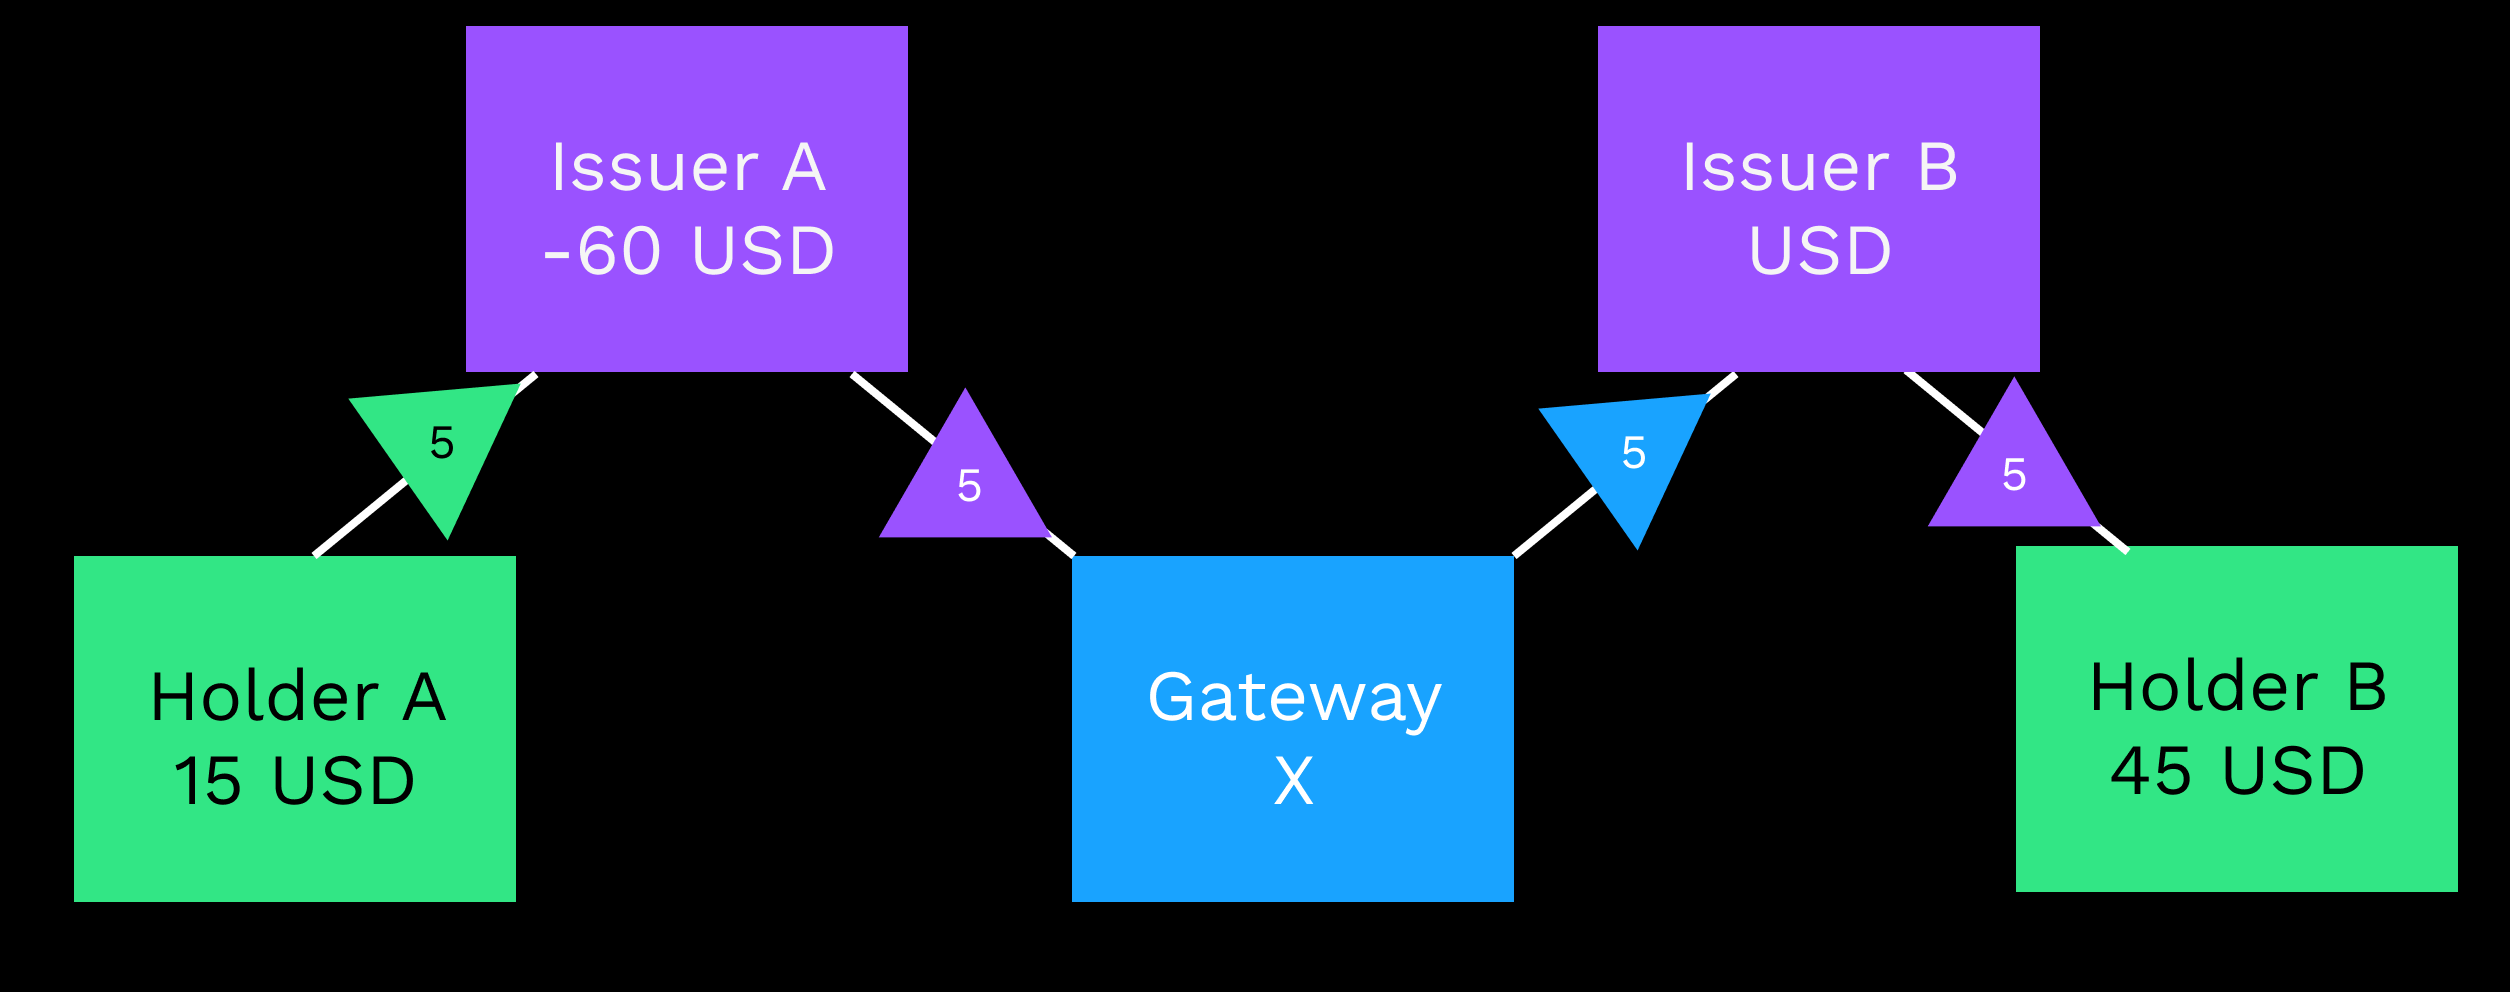
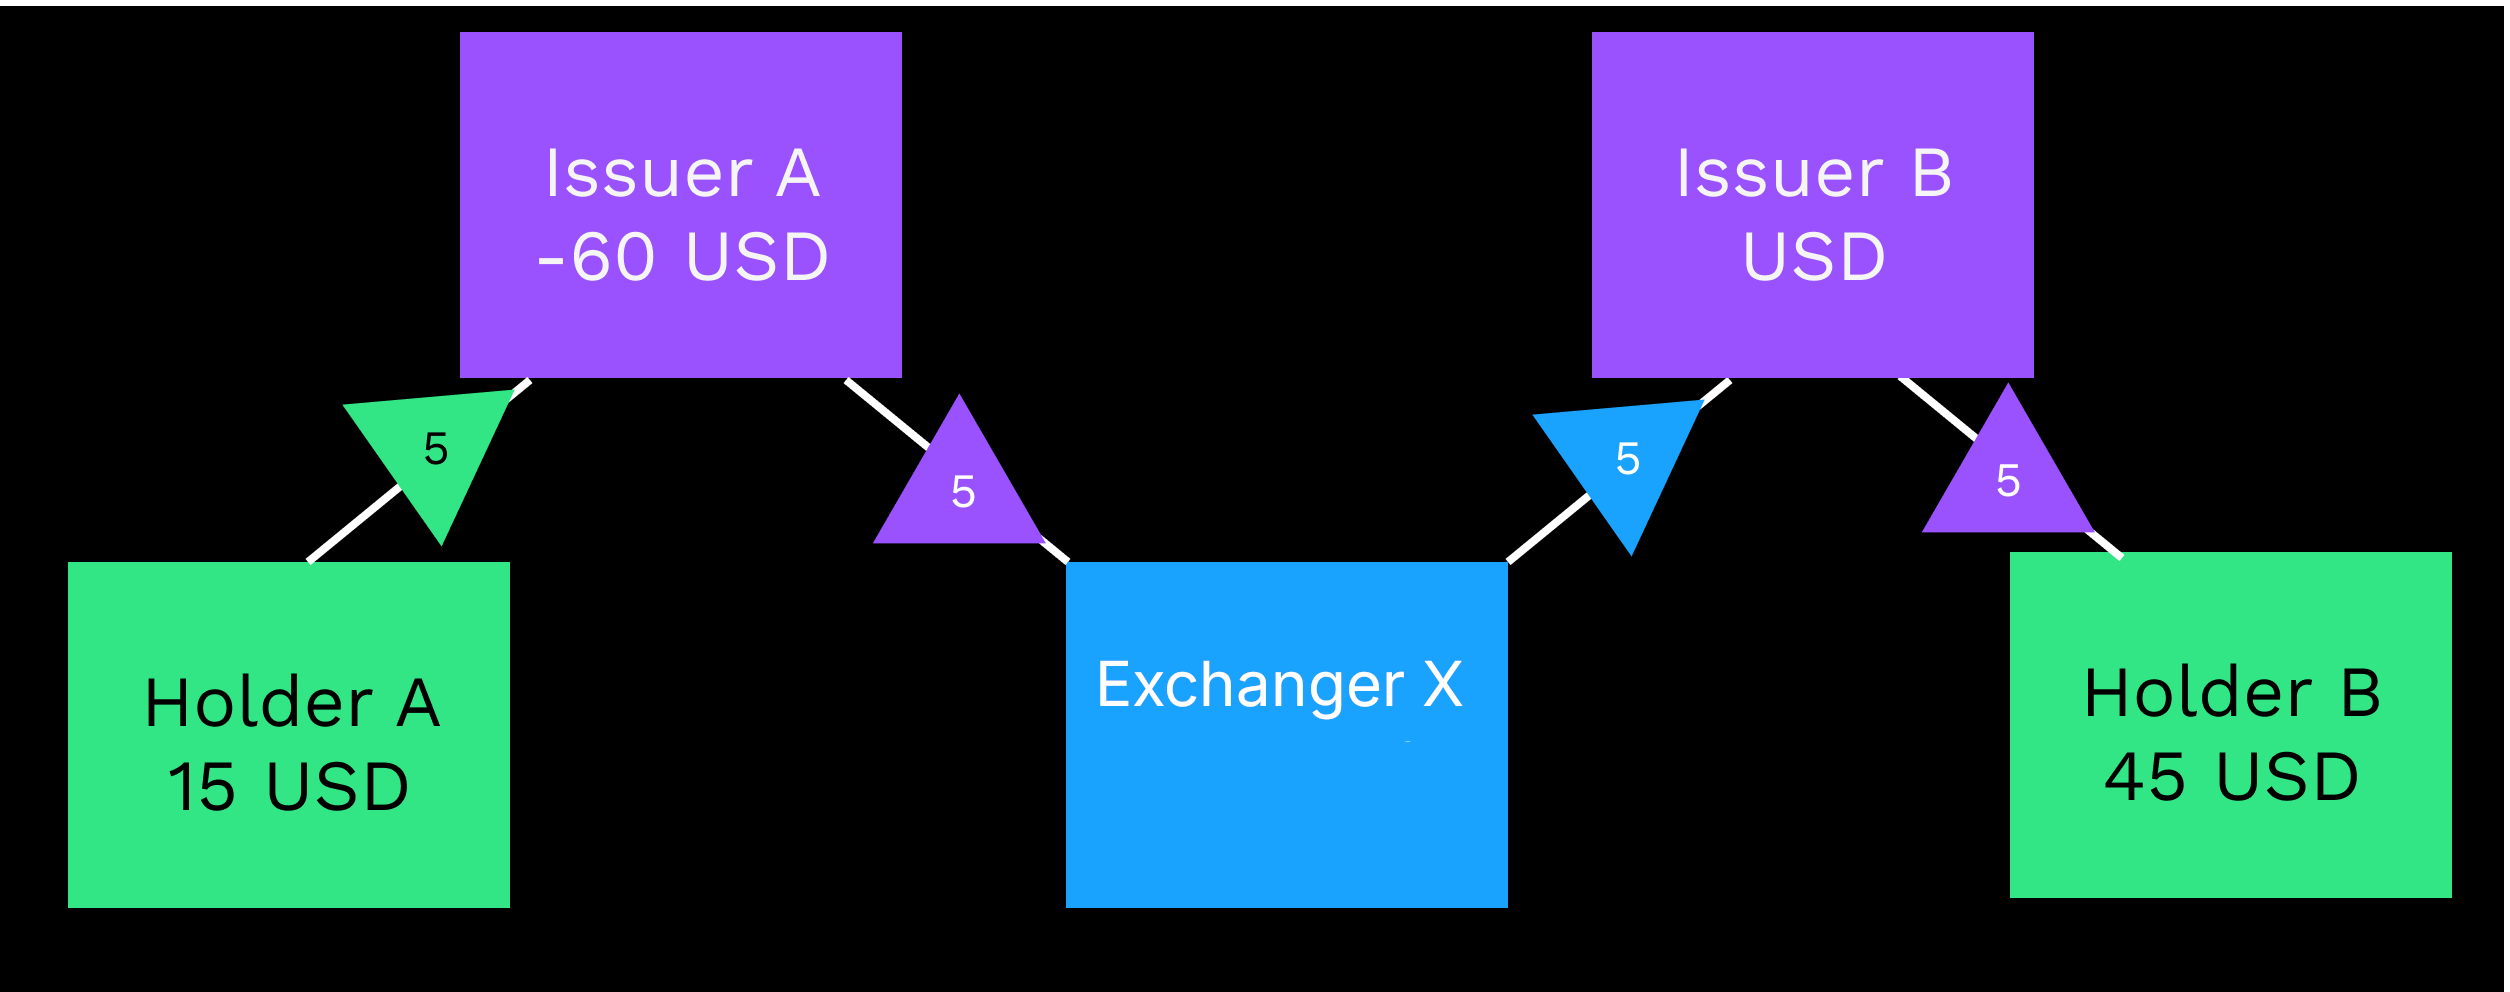
Change gateway to exchanger

diff --git a/docs/concepts/tokens/fungible-tokens/rippling.md b/docs/concepts/tokens/fungible-tokens/rippling.md
@@ -35,9 +35,9 @@ Rippling can involve several accounts as the XRP Ledger finds a path to transfer
 
 [![Holder A transfers tokens through Issuers A and B to get to Holder B.](/docs/img/cpt-rippling5.png "Holder A transfers tokens through Issuers A and B to get to Holder B.")](/docs/img/cpt-rippling5.png)
 
-Tokens might also flow through intermediary gateway accounts to reach a holder.
+Tokens might also flow through intermediary exchanger accounts to reach a holder.
 
-[![Holder A transfers tokens through Issuers A and B and Gateway X to get to Holder B.](/docs/img/cpt-rippling6.png "Holder A transfers tokens through Issuers A and B and Gateway X to get to Holder B.")](/docs/img/cpt-rippling6.png)
+[![Holder A transfers tokens through Issuers A and B and Exchanger X to get to Holder B.](/docs/img/cpt-rippling6.png "Holder A transfers tokens through Issuers A and B and Exchanger X to get to Holder B.")](/docs/img/cpt-rippling6.png)
 
 Other accounts, such as liquidity providers and normal holders, should not allow rippling. Rippling can lead to exploits where balances shift unexpectedly, tokens are allocated at higher rates, and the holder ends up losing value on a transaction where they played no part.
 
